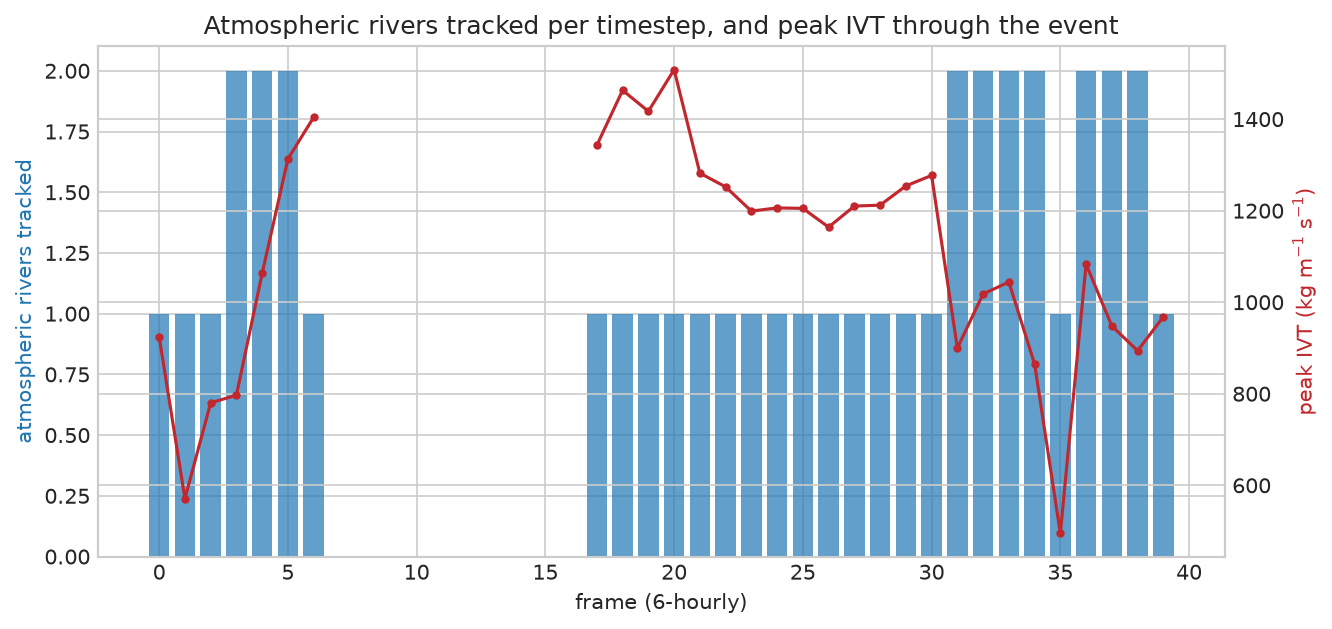
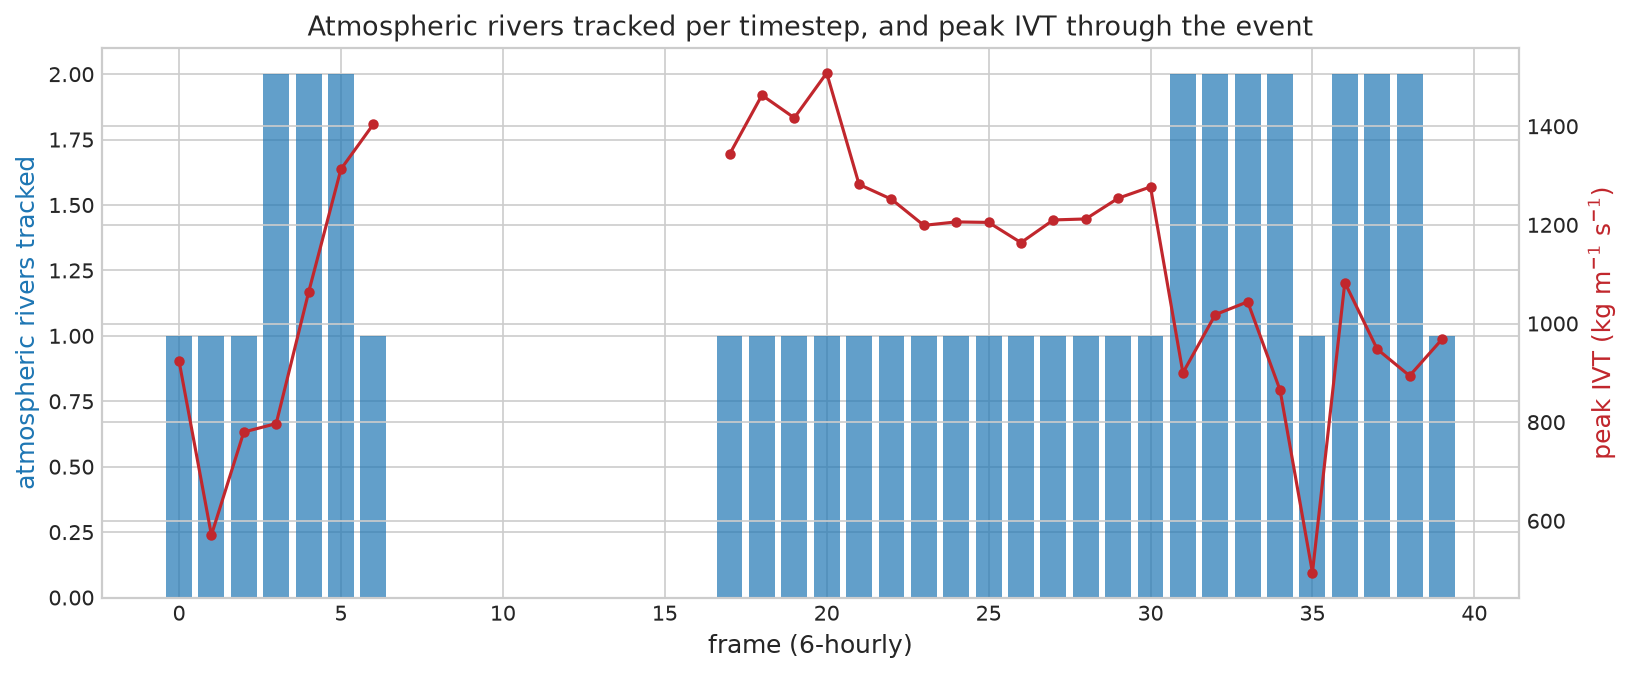
Enlarge headline figure: bigger frames + large geographic AR trajectory map
The 04 figure was cramped (single row, tiny trajectory panel). New layout:
a row of detected-AR frame thumbnails on top, and a large full-width map of the
recovered AR trajectories in real longitude/latitude below, with a legend giving
each track's step count and max length. Montage frames are now picked from
timesteps that contain a detected AR.

Changed region(s): [[0.0, 0.0, 1.0, 0.9666]]

diff --git a/notebooks/04_figures.py b/notebooks/04_figures.py
@@ -16,12 +16,12 @@
 # %% [markdown]
 # # 04 — Figures
 #
-# - `figures/main_result.png` — the headline cross-discipline figure: IVT frames
-#   with detected atmospheric-river outlines + centroids, plus the recovered AR
-#   trajectories (centroid paths coloured by track id).
+# - `figures/main_result.png` — the headline cross-discipline figure: a row of IVT
+#   frames with detected atmospheric-river outlines + centroids, above a large
+#   **geographic** map of the recovered AR trajectories (centroid paths in
+#   longitude/latitude, coloured by track id).
 # - `figures/robustness.png` — atmospheric rivers tracked per timestep and the
-#   peak IVT through the event, showing the tracker follows the rivers across the
-#   whole window.
+#   peak IVT through the event.
 
 # %%
 from pathlib import Path
@@ -29,6 +29,7 @@ from pathlib import Path
 import numpy as np
 import pandas as pd
 import imageio.v3 as iio
+import xarray as xr
 import matplotlib.pyplot as plt
 from matplotlib import cm
 
@@ -42,38 +43,67 @@ n_frames = len(frames)
 track_ids = sorted(df["track_id"].unique())
 colors = {t: cm.tab10(i % 10) for i, t in enumerate(track_ids)}
 
+# Map centroid grid-indices -> geographic lon/lat for the trajectory map.
+geo = xr.open_dataset(CLEAN / "ivt.nc")
+lons = geo["longitude"].to_numpy()
+lats = geo["latitude"].to_numpy()
+
+
+def to_lon(cx):
+    return float(lons[min(max(int(round(cx)), 0), len(lons) - 1)])
+
+
+def to_lat(cy):
+    return float(lats[min(max(int(round(cy)), 0), len(lats) - 1)])
+
+
+df["lon"] = df["centroid_x"].map(to_lon)
+df["lat"] = df["centroid_y"].map(to_lat)
+
 # %% [markdown]
-# ## Headline figure — detected AR frames + recovered trajectories
+# ## Headline figure — detected AR frames (top) + recovered trajectory map (bottom)
 
 # %%
 n_show = min(4, n_frames)
-show_idx = np.linspace(0, n_frames - 1, n_show).astype(int)
-fig = plt.figure(figsize=(15, 4.4))
+# prefer frames that actually contain a detected AR, so every thumbnail is informative
+det_frames = sorted(df["frame"].unique())
+pool = det_frames if det_frames else list(range(n_frames))
+show_idx = [pool[i] for i in np.linspace(0, len(pool) - 1, n_show).astype(int)]
 
+fig = plt.figure(figsize=(16, 11))
+gs = fig.add_gridspec(2, n_show, height_ratios=[1.0, 2.0], hspace=0.22, wspace=0.06)
+
+# --- top row: detected AR frames ---
 for col, fidx in enumerate(show_idx):
-    ax = fig.add_subplot(1, n_show + 1, col + 1)
+    ax = fig.add_subplot(gs[0, col])
     ax.imshow(iio.imread(frames[fidx]))
     sub = df[df["frame"] == fidx]
     for _, r in sub.iterrows():
-        ax.plot(r["centroid_x"], r["centroid_y"], "o", ms=6, mec="white",
-                mfc=colors[r["track_id"]])
-        ax.text(r["centroid_x"] + 4, r["centroid_y"], int(r["track_id"]),
-                color="white", fontsize=8)
+        ax.plot(r["centroid_x"], r["centroid_y"], "o", ms=9, mec="white",
+                mfc=colors[r["track_id"]], mew=1.5)
+        ax.text(r["centroid_x"] + 6, r["centroid_y"], int(r["track_id"]),
+                color="white", fontsize=11, weight="bold")
     ttl = sub["time"].iloc[0] if len(sub) else f"frame {fidx}"
-    ax.set_title(ttl, fontsize=9); ax.set_xticks([]); ax.set_yticks([])
+    ax.set_title(ttl, fontsize=11)
+    ax.set_xticks([]); ax.set_yticks([])
 
-ax = fig.add_subplot(1, n_show + 1, n_show + 1)
+# --- bottom: large geographic trajectory map ---
+axt = fig.add_subplot(gs[1, :])
 for t in track_ids:
     g = df[df["track_id"] == t].sort_values("frame")
-    ax.plot(g["centroid_x"], g["centroid_y"], "-o", ms=3, color=colors[t],
-            label=f"AR {t}")
-ax.invert_yaxis(); ax.set_aspect("equal")
-ax.set_title("recovered AR tracks"); ax.set_xlabel("lon index"); ax.set_ylabel("lat index")
-ax.legend(fontsize=7, loc="best")
+    axt.plot(g["lon"], g["lat"], "-o", ms=5, lw=2, color=colors[t],
+             label=f"AR {t} ({g['frame'].nunique()} steps, ≤{int(g['length_km'].max())} km)")
+    axt.annotate(int(t), (g["lon"].iloc[0], g["lat"].iloc[0]), fontsize=11,
+                 weight="bold", color=colors[t])
+axt.set_xlabel("longitude (°E)", fontsize=12)
+axt.set_ylabel("latitude (°N)", fontsize=12)
+axt.set_title("Recovered atmospheric-river trajectories", fontsize=13)
+axt.legend(fontsize=10, loc="best", framealpha=0.9)
+axt.tick_params(labelsize=11)
 
 fig.suptitle("Galaxy CellProfiler object-tracking applied cross-discipline to "
-             "atmospheric rivers (ERA5 IVT)", fontsize=13, y=1.04)
-fig.tight_layout(rect=[0, 0, 1, 0.95])
+             "atmospheric rivers (ERA5 IVT, N Pacific, Feb 2017)",
+             fontsize=15, y=0.95)
 fig.savefig(FIGS / "main_result.png", dpi=150, bbox_inches="tight")
 plt.show()
 
@@ -84,16 +114,17 @@ plt.show()
 per_frame = df.groupby("frame").size().reindex(range(n_frames), fill_value=0)
 peak_ivt = df.groupby("frame")["max_ivt"].max().reindex(range(n_frames))
 
-fig, ax1 = plt.subplots(figsize=(9, 4.3))
+fig, ax1 = plt.subplots(figsize=(11, 4.6))
 ax1.bar(per_frame.index, per_frame.values, color="#1f77b4", alpha=0.7,
         label="ARs tracked")
-ax1.set_xlabel("frame (6-hourly)"); ax1.set_ylabel("atmospheric rivers tracked",
-                                                    color="#1f77b4")
+ax1.set_xlabel("frame (6-hourly)", fontsize=12)
+ax1.set_ylabel("atmospheric rivers tracked", color="#1f77b4", fontsize=12)
 ax2 = ax1.twinx()
-ax2.plot(peak_ivt.index, peak_ivt.values, "-o", ms=3, color="#c1272d",
+ax2.plot(peak_ivt.index, peak_ivt.values, "-o", ms=4, color="#c1272d",
          label="peak IVT")
-ax2.set_ylabel("peak IVT (kg m$^{-1}$ s$^{-1}$)", color="#c1272d")
-ax1.set_title("Atmospheric rivers tracked per timestep, and peak IVT through the event")
+ax2.set_ylabel("peak IVT (kg m$^{-1}$ s$^{-1}$)", color="#c1272d", fontsize=12)
+ax1.set_title("Atmospheric rivers tracked per timestep, and peak IVT through the event",
+              fontsize=13)
 fig.tight_layout()
 fig.savefig(FIGS / "robustness.png", dpi=150, bbox_inches="tight")
 plt.show()